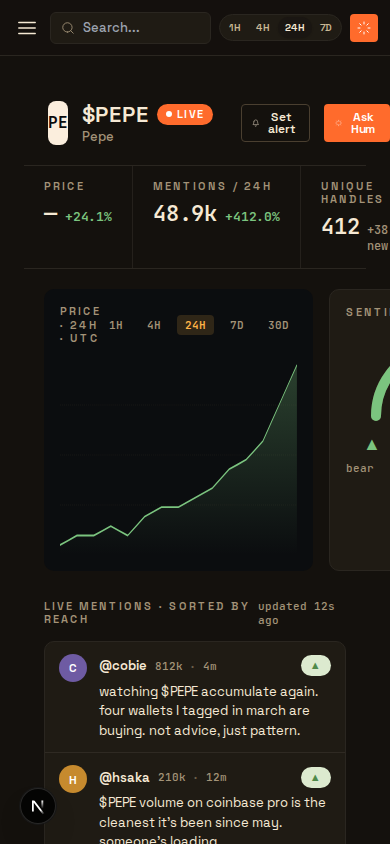
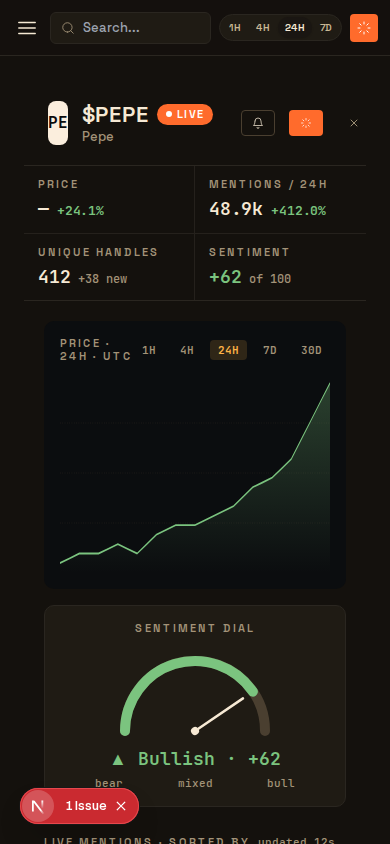
fix(application): mobile QA stragglers + M1.5 docs (P5, #87)
Cross-breakpoint QA pass for M1.5. Two stragglers fixed: the auth
pages no longer overflow 5px at 390px (`.tb-stage` gets an explicit
minmax(0,1fr) column so the provider buttons can't push it past the
viewport), and TokenDetailPane reflows on mobile — 2x2 stat strip,
stacked chart + sentiment dial, icon-only header buttons — so the
watchlist detail (page and slide-over) no longer clips. Adds the
M1.5 milestone doc and the phase-5 verification README.

https://claude.ai/code/session_01Fn8iacnEgLMKFKnvampRWW

diff --git a/packages/application/app/(authed)/_dashboard/TokenDetailPane.tsx b/packages/application/app/(authed)/_dashboard/TokenDetailPane.tsx
@@ -1,6 +1,7 @@
 'use client'
 
 import { Icon, Button, Eyebrow, Ticker, Pill, BuzzDot, Avatar, Delta, fmtCount, fmtPrice } from './primitives'
+import { useIsMobile } from '@/app/_hooks/useIsMobile'
 import type { Token, Mention } from './types'
 
 const SAMPLE_MENTIONS: Mention[] = [
@@ -118,6 +119,7 @@ interface TokenDetailPaneProps {
 export function TokenDetailPane({ token, onClose, onAskHum, mentions = SAMPLE_MENTIONS }: TokenDetailPaneProps) {
   const score = token.sent === 'bull' ? 62 : token.sent === 'bear' ? -48 : 8
   const scoreColor = score > 20 ? 'var(--pos)' : score < -20 ? 'var(--neg)' : 'var(--neu)'
+  const isMobile = useIsMobile()
 
   return (
     <div style={{ display: 'flex', flexDirection: 'column', height: '100%', background: 'var(--bg)', minWidth: 0 }}>
@@ -134,39 +136,77 @@ export function TokenDetailPane({ token, onClose, onAskHum, mentions = SAMPLE_ME
           <div style={{ font: '500 13px var(--font-sans)', color: 'var(--fg-3)' }}>{token.name}</div>
         </div>
         <div style={{ flex: 1 }} />
-        <Button variant="ghost" size="sm" icon="bell">Set alert</Button>
-        <Button variant="primary" size="sm" icon="sparkle" onClick={() => onAskHum?.(`What's driving $${token.sym} buzz?`)}>Ask Hum</Button>
+        {/* On mobile, show icon-only to avoid crowding the 390px header row */}
+        <Button variant="ghost" size="sm" icon="bell">{isMobile ? null : 'Set alert'}</Button>
+        <Button variant="primary" size="sm" icon="sparkle" onClick={() => onAskHum?.(`What's driving $${token.sym} buzz?`)}>{isMobile ? null : 'Ask Hum'}</Button>
         <Button variant="quiet" size="sm" icon="close" onClick={onClose} />
       </div>
 
-      {/* Stat strip */}
-      <div style={{ display: 'grid', gridTemplateColumns: 'repeat(4, 1fr)', borderBottom: '1px solid var(--border)', flexShrink: 0 }}>
+      {/* Stat strip — 4-col on desktop/tablet, 2×2 on mobile */}
+      <div style={{
+        display: 'grid',
+        gridTemplateColumns: isMobile ? 'repeat(2, 1fr)' : 'repeat(4, 1fr)',
+        borderBottom: '1px solid var(--border)',
+        flexShrink: 0,
+      }}>
         {[
           { l: 'Price',          v: '—',                     s: <Delta value={token.d24} style={{ fontSize: 13 }} /> },
           { l: 'Mentions / 24h', v: fmtCount(token.mentions), s: <Delta value={token.dbuzz} style={{ fontSize: 13 }} /> },
           { l: 'Unique handles', v: '412',                   s: <span style={{ font: '500 12px var(--font-mono)', color: 'var(--fg-3)' }}>+38 new</span> },
           { l: 'Sentiment',      v: <span style={{ color: scoreColor }}>{score > 0 ? '+' : ''}{score}</span>, s: <span style={{ font: '500 12px var(--font-mono)', color: 'var(--fg-3)' }}>of 100</span> },
         ].map((c, i) => (
-          <div key={i} style={{ padding: '14px 20px', borderRight: i < 3 ? '1px solid var(--border-hairline)' : 'none' }}>
+          <div
+            key={i}
+            style={{
+              padding: isMobile ? '12px 14px' : '14px 20px',
+              minWidth: 0,
+              // Desktop (4-col): right-border on first 3 cells
+              // Mobile (2-col): right-border on left-column cells (i%2===0),
+              //                 bottom-border on top row (i<2)
+              borderRight: isMobile
+                ? (i % 2 === 0 ? '1px solid var(--border-hairline)' : 'none')
+                : (i < 3 ? '1px solid var(--border-hairline)' : 'none'),
+              borderBottom: isMobile && i < 2 ? '1px solid var(--border-hairline)' : 'none',
+            }}
+          >
             <Eyebrow style={{ marginBottom: 6 }}>{c.l}</Eyebrow>
             <div style={{ display: 'flex', alignItems: 'baseline', gap: 8 }}>
-              <span style={{ font: '600 22px var(--font-mono)', fontVariantNumeric: 'tabular-nums', letterSpacing: '-0.01em' }}>{c.v}</span>
+              <span style={{
+                font: `600 ${isMobile ? 18 : 22}px var(--font-mono)`,
+                fontVariantNumeric: 'tabular-nums',
+                letterSpacing: '-0.01em',
+              }}>{c.v}</span>
               {c.s}
             </div>
           </div>
         ))}
       </div>
 
-      {/* Chart + sentiment dial */}
-      <div style={{ padding: 20, display: 'grid', gridTemplateColumns: '1fr 240px', gap: 16, flexShrink: 0 }}>
+      {/* Chart + sentiment dial — side-by-side on desktop, stacked on mobile */}
+      <div style={{
+        padding: 20,
+        display: 'grid',
+        gridTemplateColumns: isMobile ? '1fr' : '1fr 240px',
+        gap: 16,
+        flexShrink: 0,
+      }}>
         <PriceChart token={token} />
-        <div style={{ background: 'var(--surface)', border: '1px solid var(--border)', borderRadius: 10, padding: 16, display: 'flex', flexDirection: 'column', gap: 6 }}>
+        <div style={{
+          background: 'var(--surface)',
+          border: '1px solid var(--border)',
+          borderRadius: 10,
+          padding: 16,
+          display: 'flex',
+          flexDirection: 'column',
+          gap: 6,
+          alignItems: isMobile ? 'center' : 'flex-start',
+        }}>
           <Eyebrow>Sentiment dial</Eyebrow>
           <SentimentMeter score={score} width={200} />
           <div style={{ textAlign: 'center', font: '600 18px var(--font-mono)', color: scoreColor }}>
             {score > 20 ? '▲ Bullish' : score < -20 ? '▼ Bearish' : '◆ Mixed'} · {score > 0 ? '+' : ''}{score}
           </div>
-          <div style={{ display: 'flex', justifyContent: 'space-between', font: '500 11px var(--font-mono)', color: 'var(--fg-3)' }}>
+          <div style={{ display: 'flex', justifyContent: 'space-between', font: '500 11px var(--font-mono)', color: 'var(--fg-3)', width: 200 }}>
             <span>bear</span><span>mixed</span><span>bull</span>
           </div>
         </div>

diff --git a/packages/application/app/_auth/auth.css b/packages/application/app/_auth/auth.css
@@ -21,6 +21,10 @@
   width: 100%;
   display: grid;
   place-items: center;
+  /* Explicit 1fr column prevents the auto track from sizing to max-content
+     (which allows provider-button text to push .tb-pane past the viewport
+     at narrow widths, causing 5px overflow on /sign-in and /sign-up). */
+  grid-template-columns: minmax(0, 1fr);
   padding: var(--sp-7);
   background:
     radial-gradient(1100px 600px at 50% -10%, rgba(255,107,44,0.05), transparent 60%),

diff --git a/docs/milestones/M1.5-mobile-ui.md b/docs/milestones/M1.5-mobile-ui.md
@@ -1,0 +1,44 @@
+# M1.5 — Mobile-friendly UI overhaul
+
+Makes the authed application (`packages/application`) fully usable on phones and tablets. Surfaced during M1 browser verification: the desktop sidebar shell didn't collapse and data-dense pages (Movers, Watchlist, Live feed) overflowed horizontally at ~390px. Slotted between M1 and M2; the marketing site is out of scope.
+
+## Approach / conventions
+
+- **Breakpoint is JS-driven**, not CSS `@media`: the shared hook `app/_hooks/useIsMobile.ts` (`@/app/_hooks/useIsMobile`) wraps `matchMedia` at a 768px max-width and is SSR-safe. Components branch their inline styles on `isMobile`.
+- **Inline `style={{}}` + CSS custom properties** throughout (matching the existing app); the only stylesheet touched is `app/_auth/auth.css` for the Clerk-less auth pages.
+- Breakpoints exercised in QA: **phone 390×844, tablet 768×1024, desktop 1280×800.**
+
+## Phases
+
+### Phase 1 — Responsive app shell (#83, PR #92)
+
+- The desktop sidebar collapses to an off-canvas **drawer** on mobile, opened by a hamburger in the top bar. The closed drawer is `inert` (not focusable/clickable). Top bar condenses.
+
+### Phase 2 — Responsive data tables (#84, PR #93)
+
+- Movers and Watchlist tables **reflow from rows to cards** on mobile; the dense multi-column tables are preserved on desktop/tablet.
+
+### Phase 3 — Feed & dashboard pages (#85, PR #94)
+
+- Live feed, the dashboard/Today page, and Analytics get responsive padding and stacking so their content fits without horizontal scroll on mobile.
+
+### Phase 4 — Account / Alerts / forms & touch targets (#86, PR #95)
+
+- `/account` renders Clerk's `UserProfile` **full-width** on mobile (full-width container + a mobile-only Clerk `appearance` override).
+- The Watchlist card favourite **star** gains a ~40px tap target (layout-neutral `padding`/negative-margin) so it toggles reliably without opening the detail.
+- The `/alerts` placeholder gets responsive padding/heading.
+- (Scope note: the real **Alerts rule builder** does not exist yet — `/alerts` is a "coming soon" stub. It is built under M1 Phase 4 / #22; give it a mobile pass when it ships.)
+
+### Phase 5 — Cross-breakpoint QA pass (#87, this phase)
+
+- Swept every authed route (`/dashboard`, `/movers`, `/watchlist`, watchlist detail, `/live-feed`, `/analytics`, `/alerts`, `/account`) plus the public/auth pages (`/`, `/sign-in`, `/sign-up`, `/forgot-password`) at all three breakpoints. Verified the mobile drawer (focus-trapped, `inert` when closed) and tap targets.
+- **Stragglers fixed:**
+  - Auth pages (`/sign-in`, `/sign-up`, `/`) had a 5px horizontal overflow at 390px — the `.tb-stage` grid's implicit auto track sized to the provider buttons' max-content. Fixed structurally with `grid-template-columns: minmax(0, 1fr)`.
+  - `TokenDetailPane` (the watchlist detail page **and** the slide-over overlay): the 4-col stat strip clipped the Sentiment column and the `1fr 240px` chart+dial grid pushed the dial off-screen at 390px. On mobile the stat strip is now **2×2**, the chart and dial **stack**, and the header's labelled buttons go **icon-only**.
+- Verification screenshots: `docs/verification/m1.5-cross-breakpoint-p5/`.
+
+## Out of scope / follow-ups
+
+- Marketing site responsiveness.
+- The Alerts rule builder's mobile treatment (blocked on the feature existing — M1 #22).
+- Pre-existing, non-responsive bug noted during QA: `/account` logs a Clerk 404 because `<UserProfile>` expects a catch-all route (`/account/[[...rest]]`). Unrelated to mobile; track separately.

diff --git a/docs/verification/m1.5-cross-breakpoint-p5/README.md b/docs/verification/m1.5-cross-breakpoint-p5/README.md
@@ -1,0 +1,17 @@
+# M1.5 Phase 5 — cross-breakpoint QA pass
+
+Captured 2026-05-24 in a real browser, signed in via the Clerk dev instance against a local dynalite seeded with sample tokens / a watchlist / tracked queries. Every authed route plus the public/auth pages were swept at **phone 390×844, tablet 768×1024, desktop 1280×800**; each phone shot was asserted for no horizontal overflow (`scrollWidth <= innerWidth`). Verdict: **PASS** after the two stragglers below were fixed.
+
+## Stragglers found and fixed in this phase
+
+- **Auth pages 5px overflow @ 390px** (`/sign-in`, `/sign-up`, `/`): the `.tb-stage` grid's implicit track sized to the provider buttons' max-content. Fixed in `app/_auth/auth.css` with `grid-template-columns: minmax(0, 1fr)`. Now 390/390; `/forgot-password` and tablet/desktop unaffected.
+- **`TokenDetailPane` clipping @ 390px**: the 4-col stat strip clipped the Sentiment column and the `1fr 240px` chart+dial grid overflowed. On mobile the strip is now 2×2, the chart+dial stack, and the header buttons are icon-only. Applies to both the standalone `/watchlist/<sym>` page and the slide-over overlay.
+
+## Screenshots
+
+`<route>-<breakpoint>.png` — phone for every route, plus tablet/desktop for the data-dense/interactive routes and a desktop sanity shot for the rest. Notable:
+
+- `watchlist-detail-phone.png` — standalone detail: 2×2 stat strip, chart + dial stacked, all visible.
+- `watchlist-detail-overlay-phone.png` — same pane as the slide-over opened from `/watchlist`.
+- `sign-in-phone.png` / `sign-up-phone.png` / `root-phone.png` — auth pages, no overflow.
+- `drawer-open-phone.png` — the mobile nav drawer (focus-trapped; `inert` when closed).